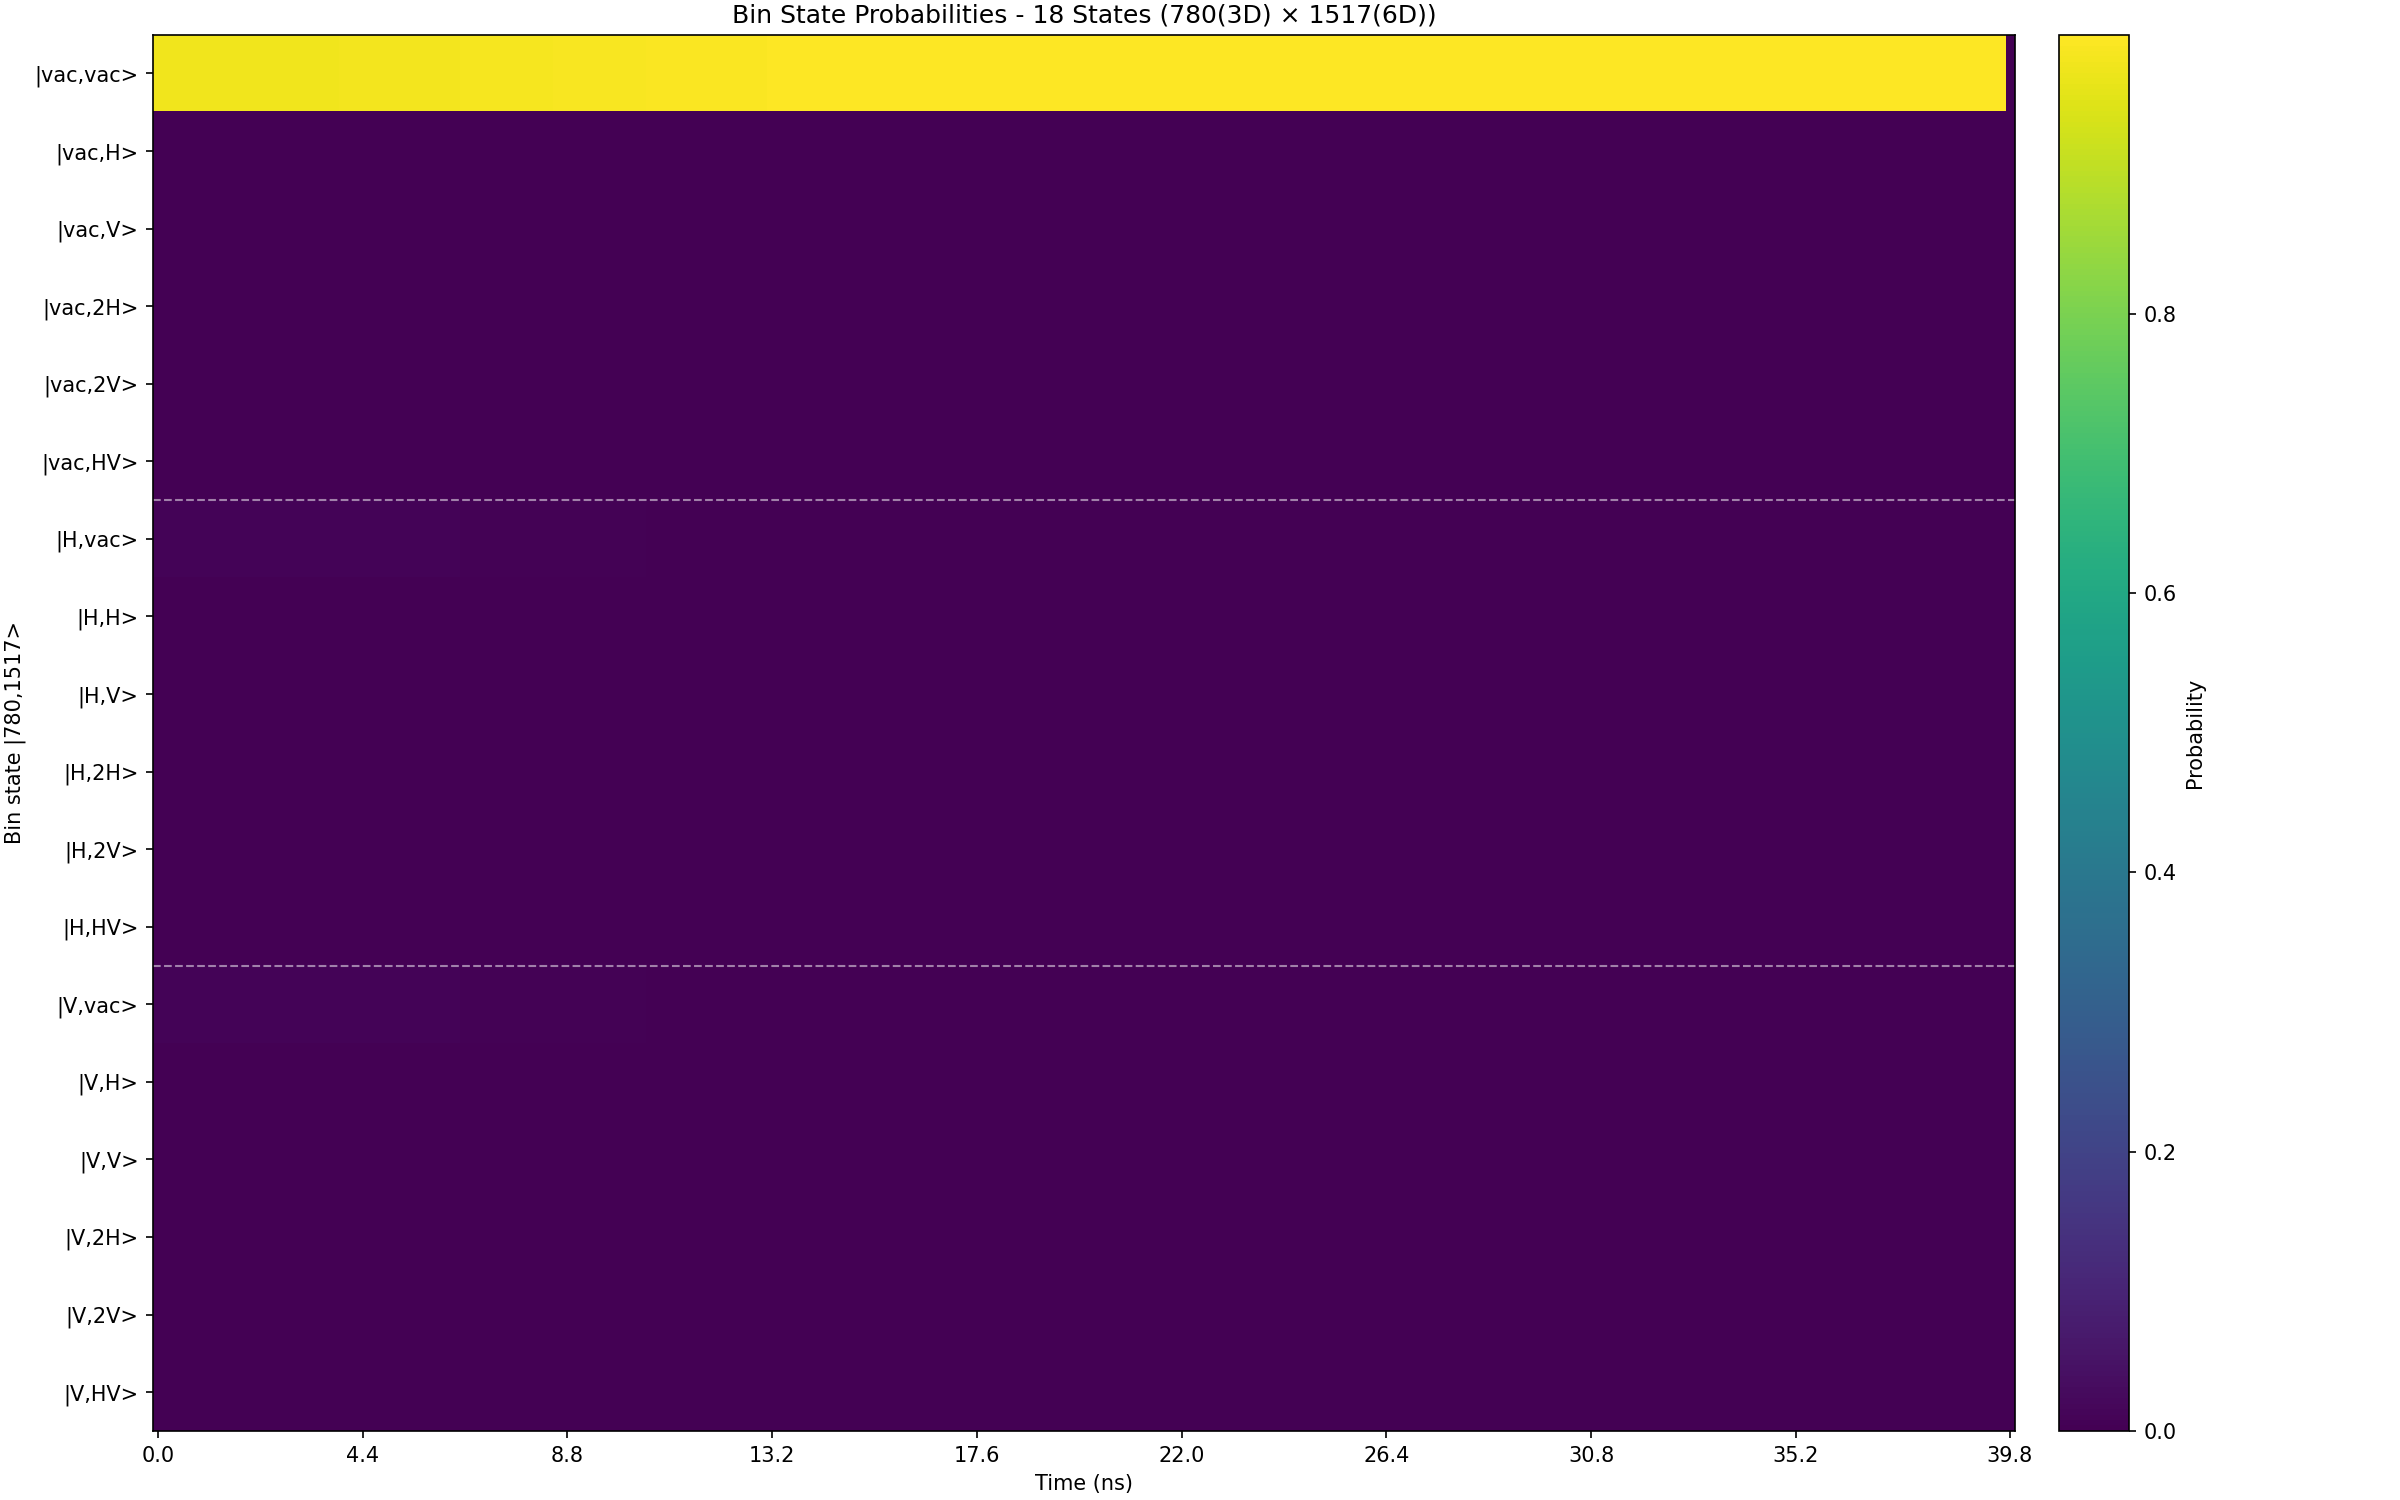
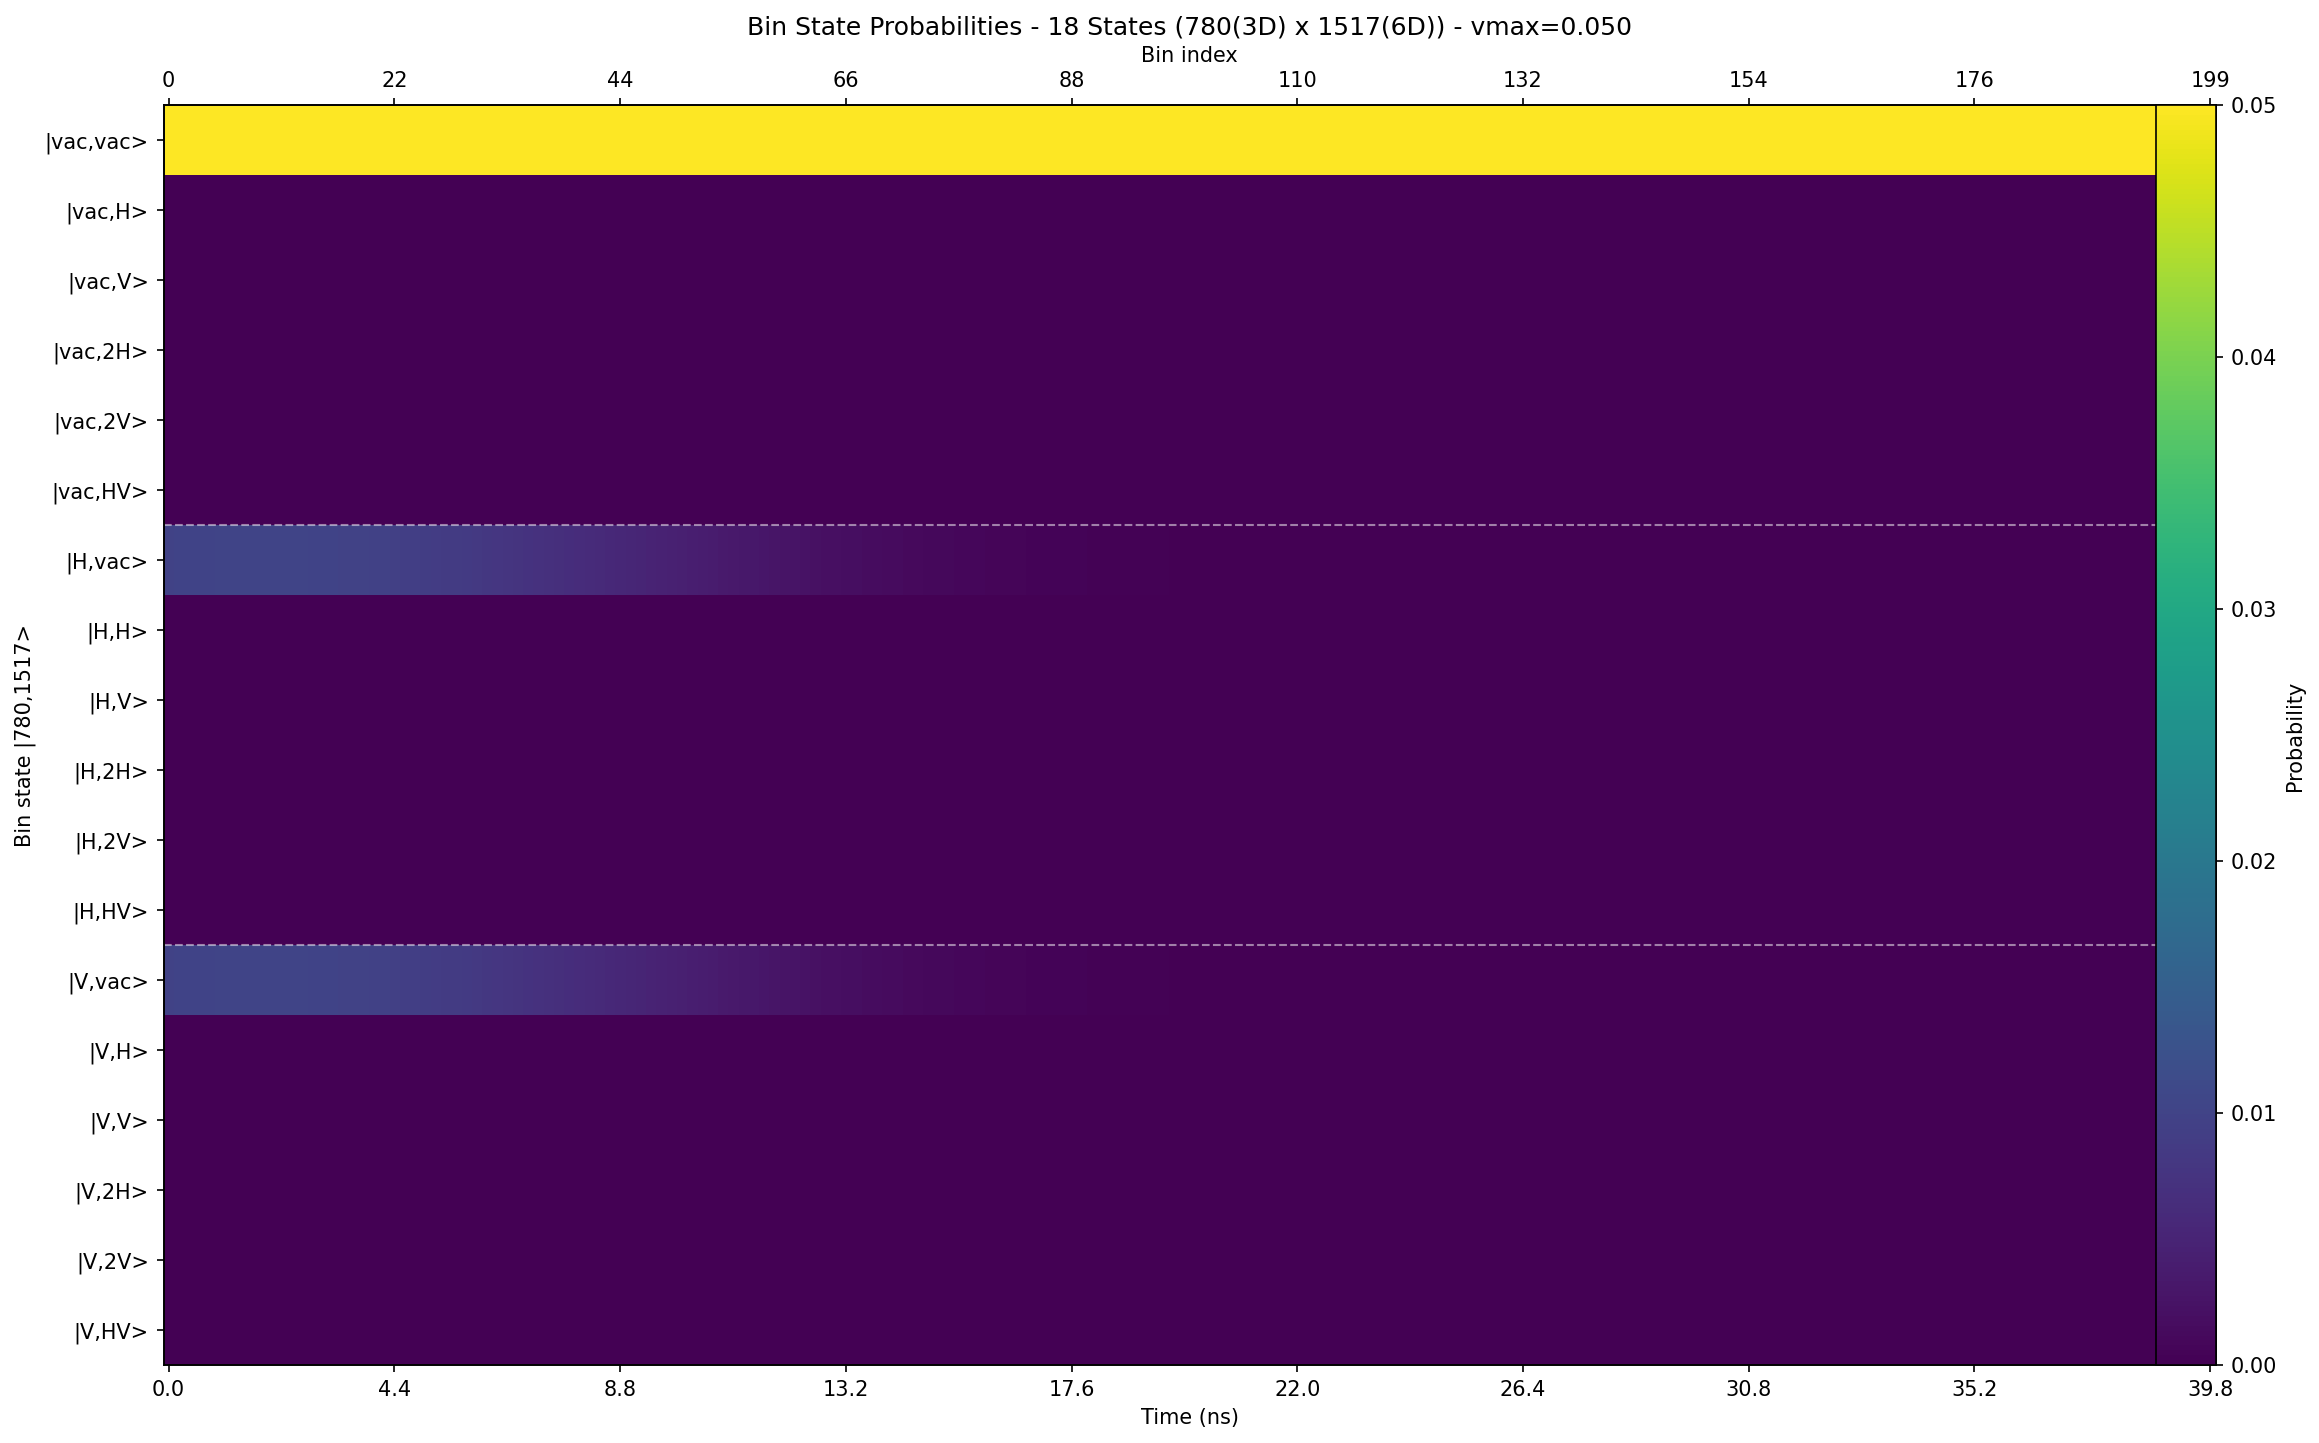
Fix heatmap visualization: dual x-axis and color scale
- Add dual x-axis: bin index (top) and time in ns (bottom)
- Auto-scale vmax based on emission probability to make H/V states visible
- Fix layout: use make_axes_locatable for colorbar positioning
- Adjust subplot margins to prevent overlap

Changed region(s): [[0.0, 0.0, 0.9625, 0.9979]]

diff --git a/atom_sim/visualization/wavepacket.py b/atom_sim/visualization/wavepacket.py
@@ -587,6 +587,7 @@ def plot_bin_state_heatmap(
     figsize: tuple = (12, 8),
     ax: Optional[plt.Axes] = None,
     atom_at_end: bool = False,
+    separate_vac_scale: bool = False,
 ) -> plt.Axes:
     """
     Plot heatmap of bin state probabilities across time bins.
@@ -620,6 +621,9 @@ def plot_bin_state_heatmap(
     atom_at_end : bool
         If True, assumes single-atom layout with atom at the end
         (after SWAP conveyor belt). Use this for test_emission_wavepacket.py results.
+    separate_vac_scale : bool
+        If True, uses a separate color scale for the |vac,vac> row (index 0)
+        to better visualize small changes in vacuum probability.
 
     Returns
     -------
@@ -654,44 +658,85 @@ def plot_bin_state_heatmap(
     # Filter data
     probs_filtered = probs[:, row_indices]
 
+    created_fig = False
     if ax is None:
         fig, ax = plt.subplots(figsize=figsize)
+        created_fig = True
+    else:
+        fig = ax.figure
 
-    # Create heatmap
-    im = ax.imshow(
-        probs_filtered.T,  # Transpose so states are rows, bins are columns
-        aspect='auto',
-        cmap='viridis',
-        vmin=0,
-        vmax=vmax,
-        origin='upper'
-    )
+    # Create heatmap with separate scale for vac,vac if requested
+    if separate_vac_scale:
+        # Split: row 0 (|vac,vac>) and rows 1-17
+        from matplotlib.colors import Normalize
+
+        # For vac,vac row: use its own range centered at 1
+        vac_row = probs_filtered[:, 0:1].T
+        vac_vmin = max(0, vac_row.min() - 0.05)
+        vac_vmax = min(1, vac_row.max() + 0.05)
+
+        # For other rows: use auto-scale or provided vmax
+        other_rows = probs_filtered[:, 1:].T
+        if vmax is None:
+            other_vmax = max(0.01, other_rows.max())
+        else:
+            other_vmax = vmax
+
+        # Create combined data for display with separate normalization
+        # We'll use two imshow calls stacked
+        display_data = probs_filtered.T
+
+        # Create a masked array for two different normalizations
+        im = ax.imshow(
+            display_data,
+            aspect='auto',
+            cmap='viridis',
+            vmin=0,
+            vmax=max(vac_vmax, other_vmax) if vmax is None else vmax,
+            origin='upper'
+        )
+    else:
+        # Standard single-scale heatmap
+        im = ax.imshow(
+            probs_filtered.T,  # Transpose so states are rows, bins are columns
+            aspect='auto',
+            cmap='viridis',
+            vmin=0,
+            vmax=vmax,
+            origin='upper'
+        )
 
     # Set y-axis labels (state names)
     ax.set_yticks(range(len(row_labels)))
     ax.set_yticklabels(row_labels)
 
-    # Set x-axis labels (time or bin index)
-    if time_grid is not None:
-        # Show a subset of time labels to avoid crowding
-        n_ticks = min(10, n_bins_actual)
-        tick_indices = np.linspace(0, n_bins_actual - 1, n_ticks, dtype=int)
-        ax.set_xticks(tick_indices)
-        ax.set_xticklabels([f'{time_grid.t[i]:.1f}' for i in tick_indices])
-        xlabel = 'Time (ns)'
-    else:
-        n_ticks = min(10, n_bins_actual)
-        tick_indices = np.linspace(0, n_bins_actual - 1, n_ticks, dtype=int)
-        ax.set_xticks(tick_indices)
-        ax.set_xticklabels([str(i) for i in tick_indices])
-        xlabel = 'Bin index'
+    # Set x-axis labels (dual: bin index on top, time on bottom)
+    n_ticks = min(10, n_bins_actual)
+    tick_indices = np.linspace(0, n_bins_actual - 1, n_ticks, dtype=int)
 
-    ax.set_xlabel(xlabel)
+    # Bottom x-axis: time (ns)
+    ax.set_xticks(tick_indices)
+    if time_grid is not None:
+        ax.set_xticklabels([f'{time_grid.t[i]:.1f}' for i in tick_indices])
+    else:
+        ax.set_xticklabels([str(i) for i in tick_indices])
+    ax.set_xlabel('Time (ns)')
+
+    # Top x-axis: bin index
+    ax_top = ax.twiny()
+    ax_top.set_xticks(tick_indices)
+    ax_top.set_xticklabels([str(i) for i in tick_indices])
+    ax_top.set_xlabel('Bin index')
+    ax_top.set_xlim(ax.get_xlim())  # Sync limits
+
     ax.set_ylabel('Bin state |780,1517>')
     ax.set_title(f'Arm {arm.upper()} Bin State Probabilities{title_suffix}')
 
-    # Add colorbar
-    cbar = plt.colorbar(im, ax=ax, pad=0.02)
+    # Add colorbar with better positioning to avoid overlap
+    from mpl_toolkits.axes_grid1 import make_axes_locatable
+    divider = make_axes_locatable(ax)
+    cax = divider.append_axes("right", size="3%", pad=0.1)
+    cbar = fig.colorbar(im, cax=cax)
     cbar.set_label('Probability')
 
     # Add separator lines based on group_by parameter

diff --git a/notebooks/test_emission_wavepacket.py b/notebooks/test_emission_wavepacket.py
@@ -300,7 +300,13 @@ def test_emission_wavepacket():
     import matplotlib as mpl
     mpl.rcParams['image.interpolation'] = 'nearest'  # 无抗锯齿
 
-    fig, ax = plt.subplots(figsize=(16, 10))
+    # 使用更大的figsize并调整subplot参数以容纳y轴标签和双x轴
+    fig, ax = plt.subplots(figsize=(18, 10))
+
+    # 计算合适的vmax：让发射态（H,V）的变化可见
+    # vac,vac态会接近饱和，但这是可以接受的
+    # 使用 per_bin_prob_max 的1.2倍作为vmax
+    vmax_scale = max(0.05, per_bin_prob_total.max() * 1.5)
 
     plot_bin_state_heatmap(
         mps,
@@ -308,17 +314,17 @@ def test_emission_wavepacket():
         n_bins=n_bins,
         time_grid=time_grid,
         group_by='780',  # 按780态分组 (vac/H/V)
-        vmax=None,
-        figsize=(16, 10),
+        vmax=vmax_scale,  # 设置合适的vmax以显示发射态的变化
+        figsize=(18, 10),
         ax=ax,
         atom_at_end=True,  # SWAP传送带后原子在末尾
     )
-    ax.set_title('Bin State Probabilities - 18 States (780(3D) × 1517(6D))', fontsize=12)
+    ax.set_title(f'Bin State Probabilities - 18 States (780(3D) x 1517(6D)) - vmax={vmax_scale:.3f}', fontsize=12)
 
-    # 调整样式：紧凑行距
-    plt.tight_layout(pad=0.2)  # 紧凑布局
+    # 调整布局：为左侧y轴标签、顶部x轴和右侧colorbar留出空间
+    plt.subplots_adjust(left=0.12, right=0.88, top=0.92, bottom=0.08)
 
-    plt.savefig('test_emission_heatmap.png', dpi=150)
+    plt.savefig('test_emission_heatmap.png', dpi=150, bbox_inches='tight')
     print("  Heatmap saved to: test_emission_heatmap.png")
 
     # ========================================================================
